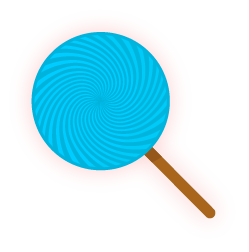
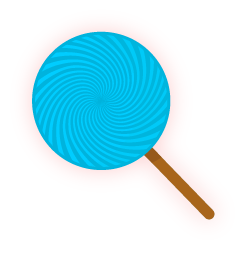
:bento: adding design elements

diff --git a/js/classes/states/Menu.js b/js/classes/states/Menu.js
@@ -16,7 +16,7 @@ class Menu extends Phaser.State {
   }
 
   createPlayer() {
-    this.player = this.add.sprite(100, 100, `red-sight`);
+    this.player = this.add.sprite(100, 100, `player-1`);
     this.player.anchor.setTo(.5);
     this.player.scale.setTo(.1);
     this.player.enableBody = true;
@@ -36,8 +36,8 @@ class Menu extends Phaser.State {
   createTitle() {
     this.title = this.add.sprite(this.world.centerX, this.world.centerY - 150, `title`);
     this.title.anchor.setTo(0.5);
-    const style = {font: `35px Arial`, fill: `#F89BDB`, align: `center`};
-    this.label = this.add.text(this.world.centerX, this.world.centerY - 90, `Frootie Shootie`, style);
+    const style = {font: `35px Alfa Slab One`, fill: `white`, align: `center`};
+    this.label = this.add.text(this.world.centerX, 90, `Frootie Shootie`, style);
     this.label.anchor.setTo(0.5);
   }
 

diff --git a/js/classes/states/Preload.js b/js/classes/states/Preload.js
@@ -1,7 +1,7 @@
 
 class Preload extends Phaser.State {
   init() {
-    const style = {font: `20px Arial`, fill: `#fff`, align: `center`};
+    const style = {font: `20px Alfa Slab One`, fill: `#fff`, align: `center`};
     this.label = this.add.text(this.world.centerX, this.world.centerY, `0%`, style);
     this.label.anchor.setTo(0.5, 0.5);
     console.log(`preload`);

diff --git a/main.js b/main.js
@@ -13,7 +13,7 @@ let mainWindow;
 
 function createWindow () {
   // Create the browser window.
-  mainWindow = new BrowserWindow({width: 1000, height: 800});
+  mainWindow = new BrowserWindow({width: 1920, height: 1080});
 
   // and load the index.html of the app.
   mainWindow.loadURL(url.format({

diff --git a/index.html b/index.html
@@ -4,6 +4,7 @@
     <meta charset="UTF-8">
     <title>Frootie Shootie</title>
     <link rel="stylesheet" href="css/style.css"/>
+    <link href="https://fonts.googleapis.com/css?family=Alfa+Slab+One" rel="stylesheet">
   </head>
   <body>
 

diff --git a/css/style.css b/css/style.css
@@ -7,4 +7,5 @@ body {
   height: 100%;
   overflow: hidden;
   background: var(--blue);
+  font-family: 'Alfa Slab One', cursive;
 }

diff --git a/css/vars.css b/css/vars.css
@@ -1,3 +1,3 @@
 :root {
-  --blue: #00cbff;
+  --blue: #33a0ba;
 }
